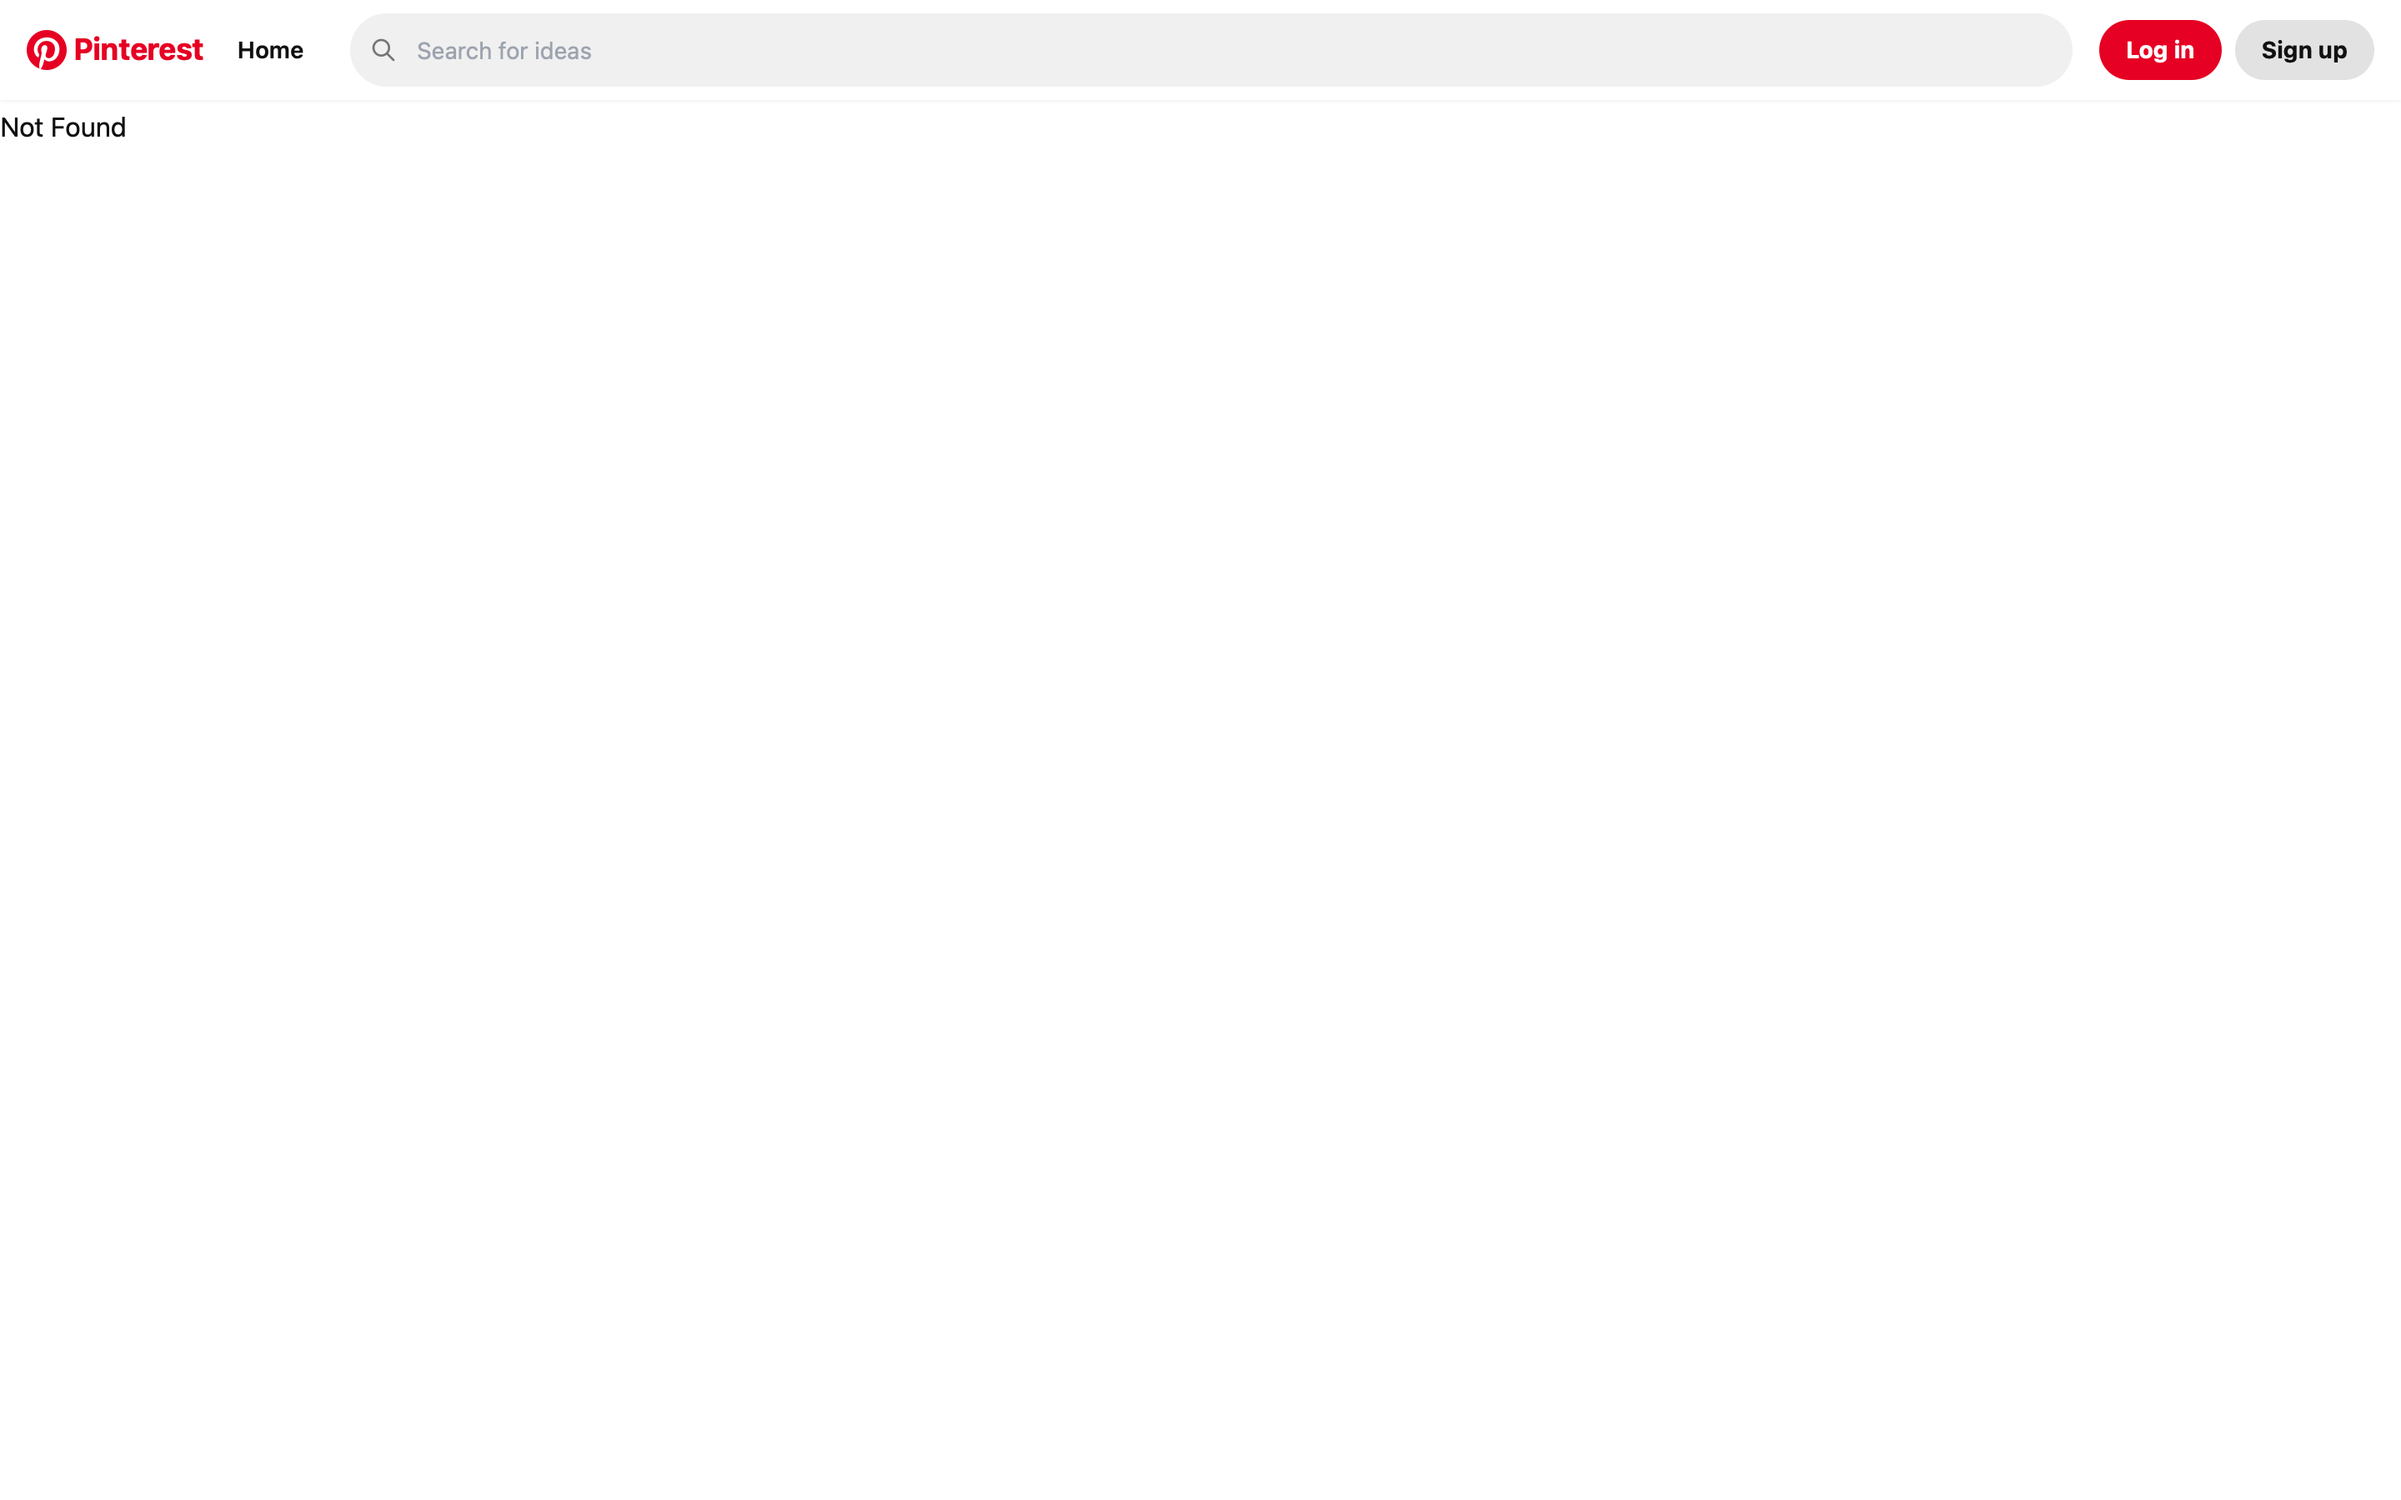
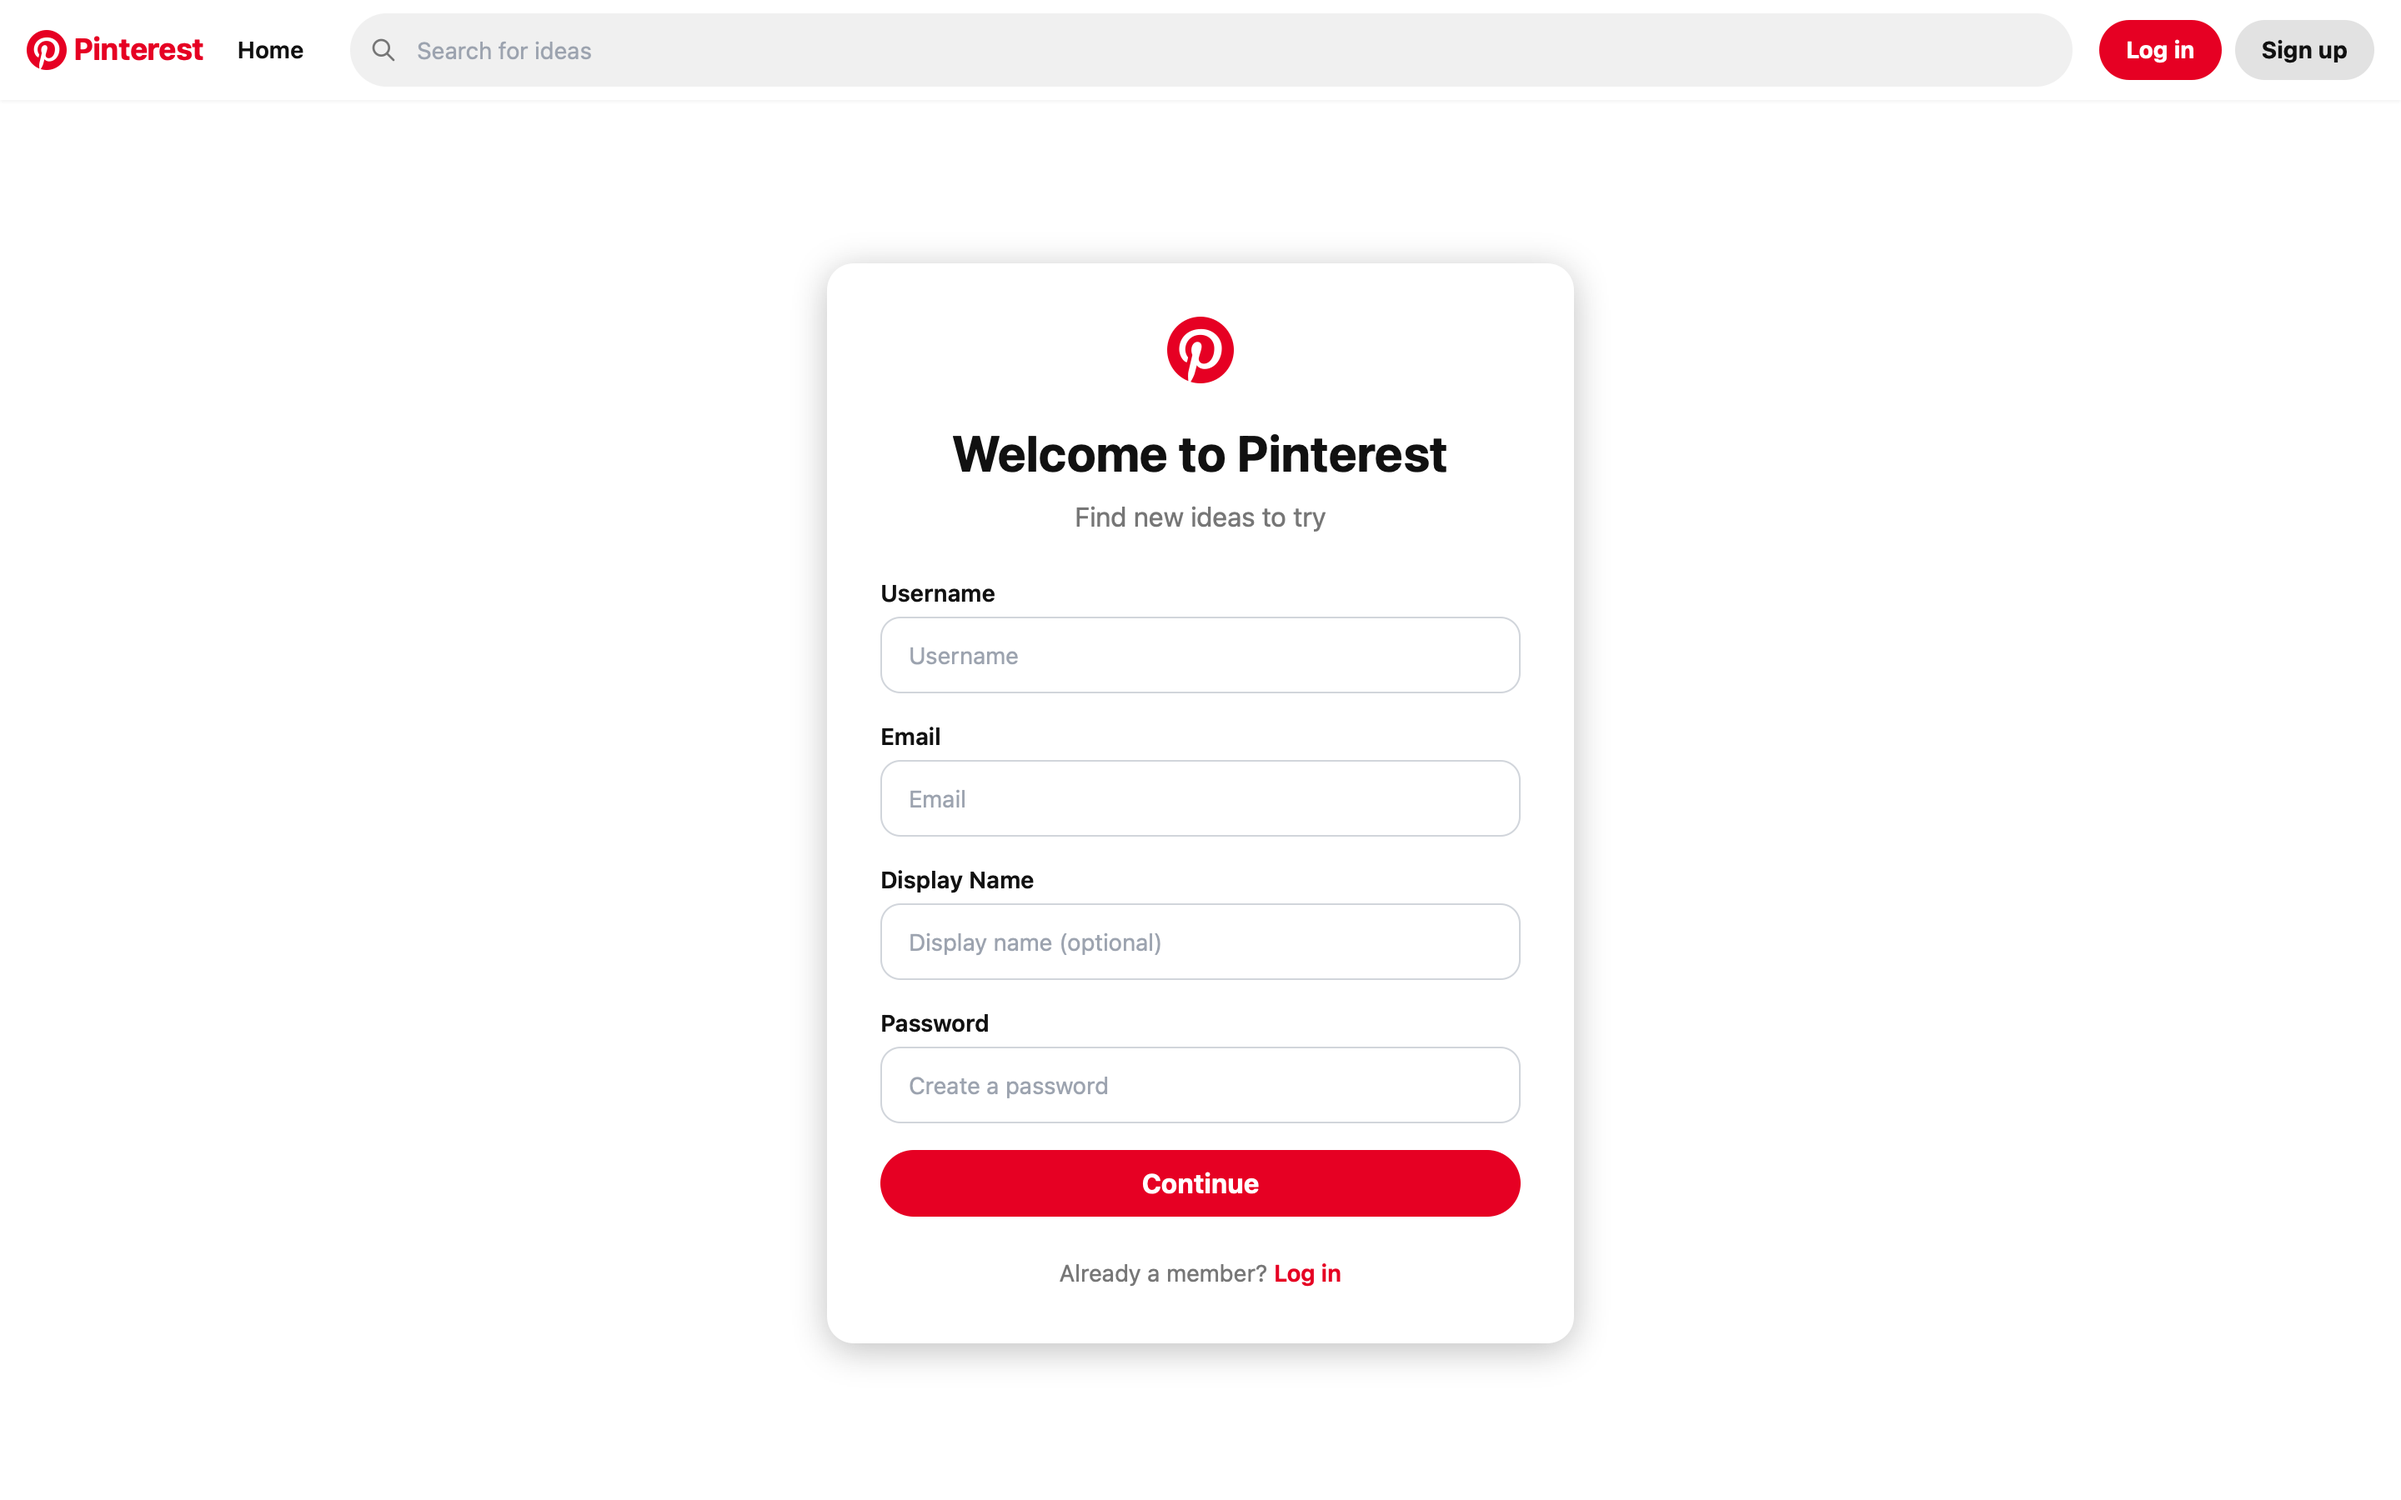
fixing screenshot

diff --git a/pinterest/frontend/src/components/MasonryGrid.tsx b/pinterest/frontend/src/components/MasonryGrid.tsx
@@ -23,24 +23,34 @@ export default function MasonryGrid({
   isLoading,
   onSavePin,
 }: MasonryGridProps) {
-  const containerRef = useRef<HTMLDivElement>(null);
   const [containerWidth, setContainerWidth] = useState(0);
+  const resizeObserverRef = useRef<ResizeObserver | null>(null);
 
-  // Use ResizeObserver to track container width
-  useEffect(() => {
-    const container = containerRef.current;
-    if (!container) return;
+  /**
+   * Attach the ResizeObserver via a *callback ref*, not a mount effect.
+   *
+   * This component early-returns an empty state when there are no pins, so on
+   * first render the grid div doesn't exist and `containerRef.current` is null.
+   * A `useEffect(..., [])` therefore bailed out and — because its dependency
+   * list is empty — never ran again once pins arrived and the div mounted.
+   * `containerWidth` stayed 0 forever, which made `columnWidth` 0, so every pin
+   * was laid out at left 0 with no width: the masonry grid collapsed into one
+   * overlapping stack. A callback ref fires whenever the node actually attaches.
+   */
+  const setContainerNode = useCallback((node: HTMLDivElement | null) => {
+    resizeObserverRef.current?.disconnect();
+    resizeObserverRef.current = null;
 
+    if (!node) return;
+
+    setContainerWidth(node.clientWidth);
     const observer = new ResizeObserver((entries) => {
       for (const entry of entries) {
         setContainerWidth(entry.contentRect.width);
       }
     });
-
-    observer.observe(container);
-    setContainerWidth(container.clientWidth);
-
-    return () => observer.disconnect();
+    observer.observe(node);
+    resizeObserverRef.current = observer;
   }, []);
 
   // Calculate column count based on container width
@@ -100,7 +110,7 @@ export default function MasonryGrid({
       className="h-[calc(100vh-72px)] overflow-auto"
       style={{ contain: 'strict' }}
     >
-      <div ref={containerRef} className="px-4 max-w-screen-2xl mx-auto">
+      <div ref={setContainerNode} className="px-4 max-w-screen-2xl mx-auto">
         {/* Masonry container with absolute positioning */}
         <div
           className="relative w-full"

diff --git a/pinterest/frontend/src/routes/__root.tsx b/pinterest/frontend/src/routes/__root.tsx
@@ -1,7 +1,13 @@
-import { createFileRoute, Outlet } from '@tanstack/react-router';
+import { createRootRoute, Outlet } from '@tanstack/react-router';
 import Header from '../components/Header';
 
-export const Route = createFileRoute('__root')({
+// `createRootRoute`, not `createFileRoute('__root')`. The generated route tree
+// uses this export as the tree's root and hangs every other route off it as a
+// child — but `createFileRoute` produces an ordinary path route, which cannot
+// parent anything. The visible symptom was that the layout rendered (header,
+// search bar) and then *every* route below it resolved to "Not Found",
+// including /login, so the app was unusable and unscreenshottable.
+export const Route = createRootRoute({
   component: RootLayout,
 });
 
